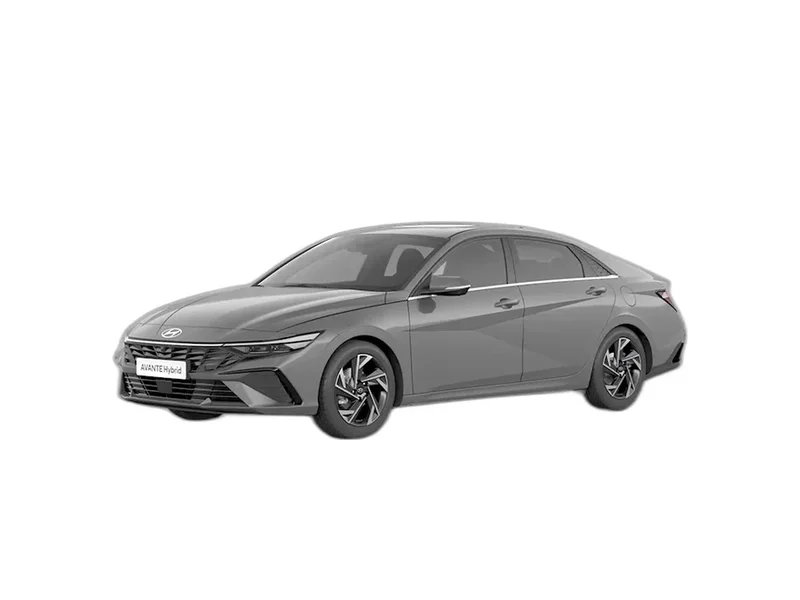
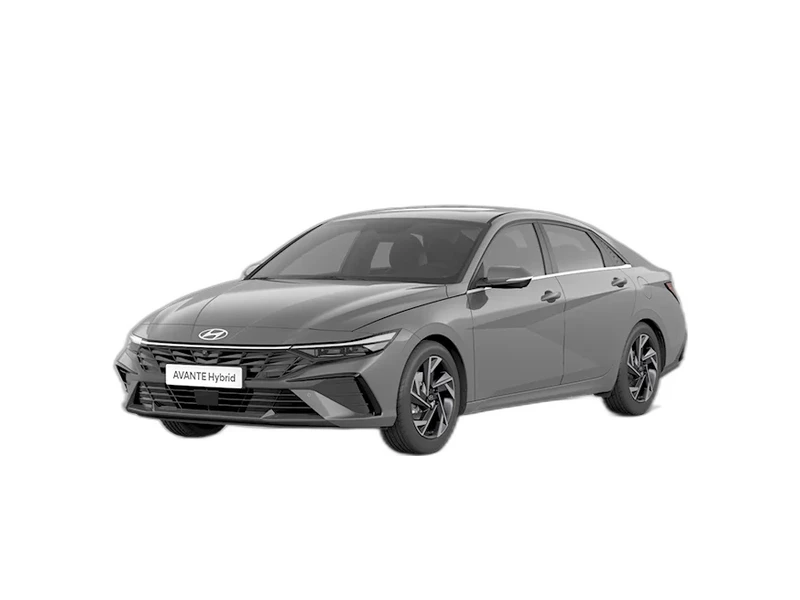
checkpoint: 성능 개선 작업 시작 전

Changed region(s): [[0.125, 0.33, 0.875, 0.78]]

diff --git a/src/components/home/HomeClient.tsx b/src/components/home/HomeClient.tsx
@@ -246,7 +246,7 @@ export function HomeClient({ vehicles }: Props) {
 
       {/* 하단 슬라이드 시트 */}
       <div
-        className={`fixed bottom-0 left-0 right-0 z-[70] bg-white rounded-t-3xl shadow-2xl transition-transform duration-300 ease-out max-h-[85vh] flex flex-col lg:left-1/2 lg:right-auto lg:max-w-2xl lg:-translate-x-1/2 ${
+        className={`fixed bottom-0 left-0 right-0 z-[70] bg-white rounded-t-3xl shadow-2xl transition-transform duration-300 ease-out max-h-[85vh] flex flex-col max-w-2xl mx-auto ${
           isSheetOpen ? 'translate-y-0' : 'translate-y-full'
         }`}
       >

diff --git a/src/components/ui/ConsultationSheet.tsx b/src/components/ui/ConsultationSheet.tsx
@@ -78,7 +78,7 @@ export function ConsultationSheet({ isOpen, onClose, note }: ConsultationSheetPr
 
       {/* 하단 시트 */}
       <div
-        className={`fixed bottom-0 left-0 right-0 z-[70] bg-white rounded-t-3xl shadow-2xl transition-transform duration-300 ease-out max-h-[85vh] flex flex-col lg:left-1/2 lg:right-auto lg:max-w-2xl lg:-translate-x-1/2 ${
+        className={`fixed bottom-0 left-0 right-0 z-[70] bg-white rounded-t-3xl shadow-2xl transition-transform duration-300 ease-out max-h-[85vh] flex flex-col max-w-2xl mx-auto ${
           isOpen ? 'translate-y-0' : 'translate-y-full'
         }`}
       >